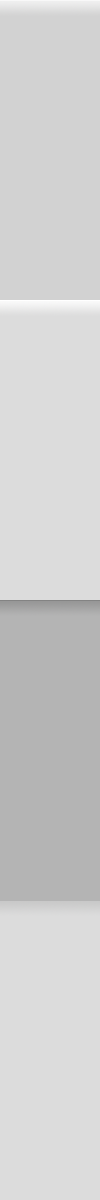
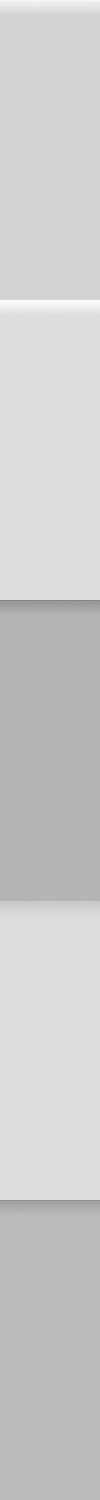
bug 12940 adding style and updating button image for checked=true r=me
git-svn-id: http://publicsvn.songbirdnest.com/client/trunk@11332 5aad4ff5-4b58-4159-ba3f-0e6328df4cad

diff --git a/feathers/gonzo/chrome/skin/images.css b/feathers/gonzo/chrome/skin/images.css
@@ -107,6 +107,7 @@ menulist:hover {
 }
 button:active,
 button[open],
+button[checked="true"],
 toolbarbutton:active,
 toolbarbutton[open],
 toolbarbutton[checked="true"],
@@ -114,6 +115,11 @@ menulist:active,
 menulist[open="true"] {
   background-position:center -600px;
 }
+button[checked="true"]:hover,
+toolbarbutton[checked="true"] {
+  background-position:center -1200px;
+}
+
 button[disabled="true"],
 toolbarbutton[disabled="true"],
 menulist[disabled="true"] {
